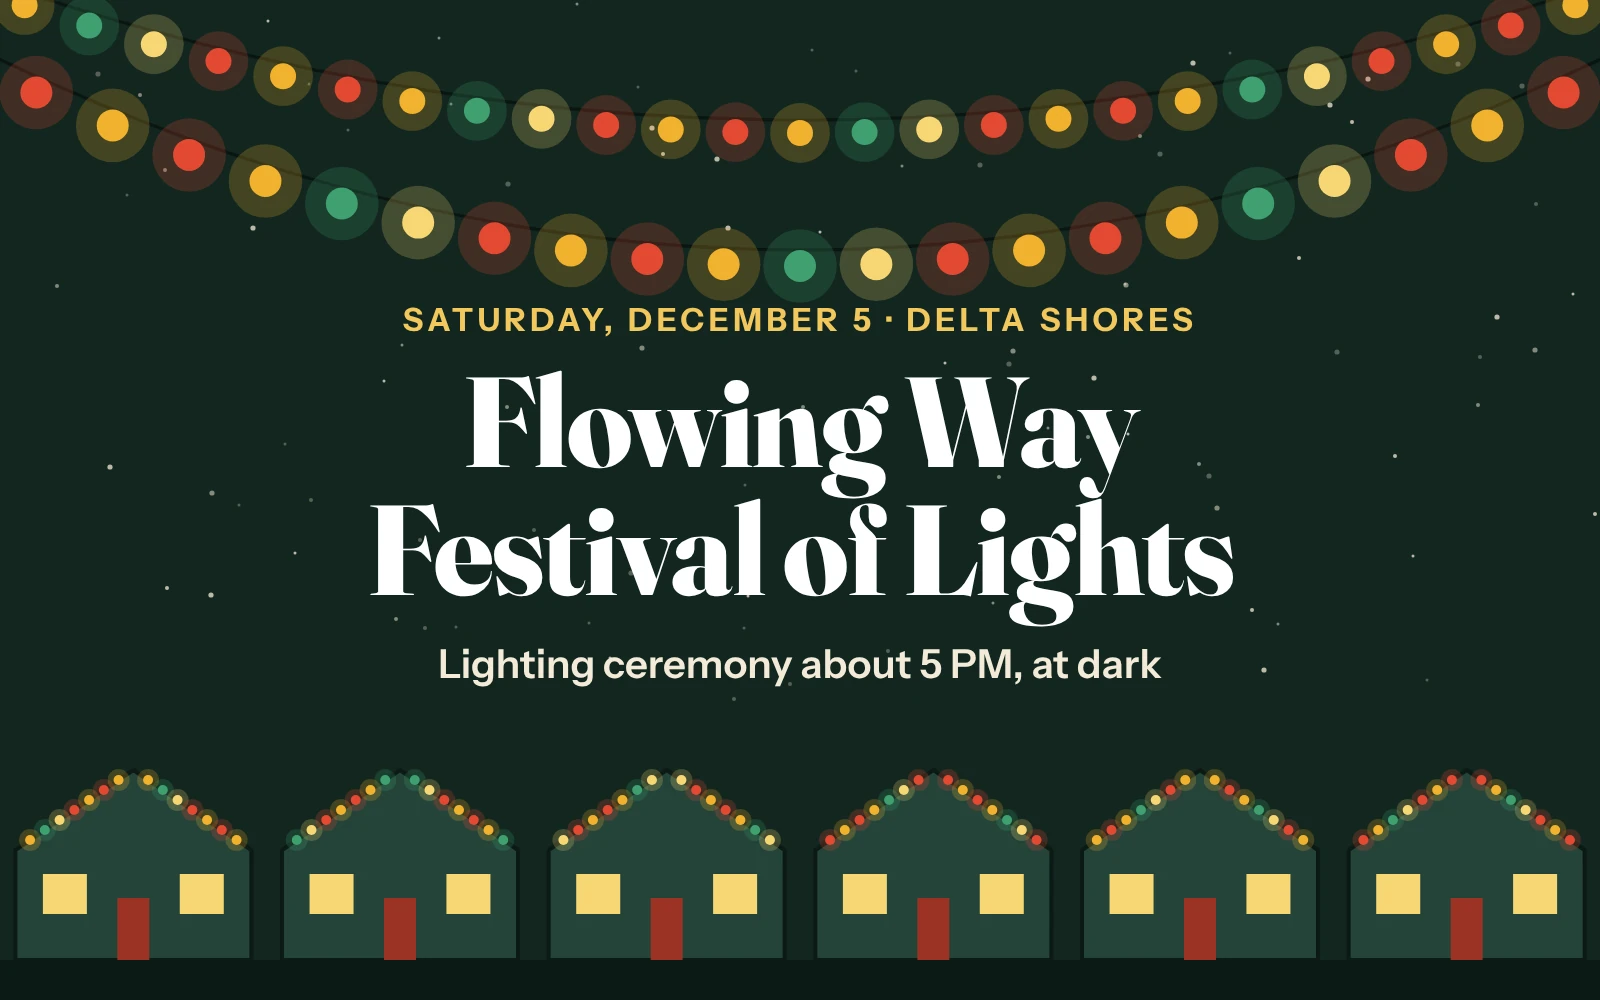
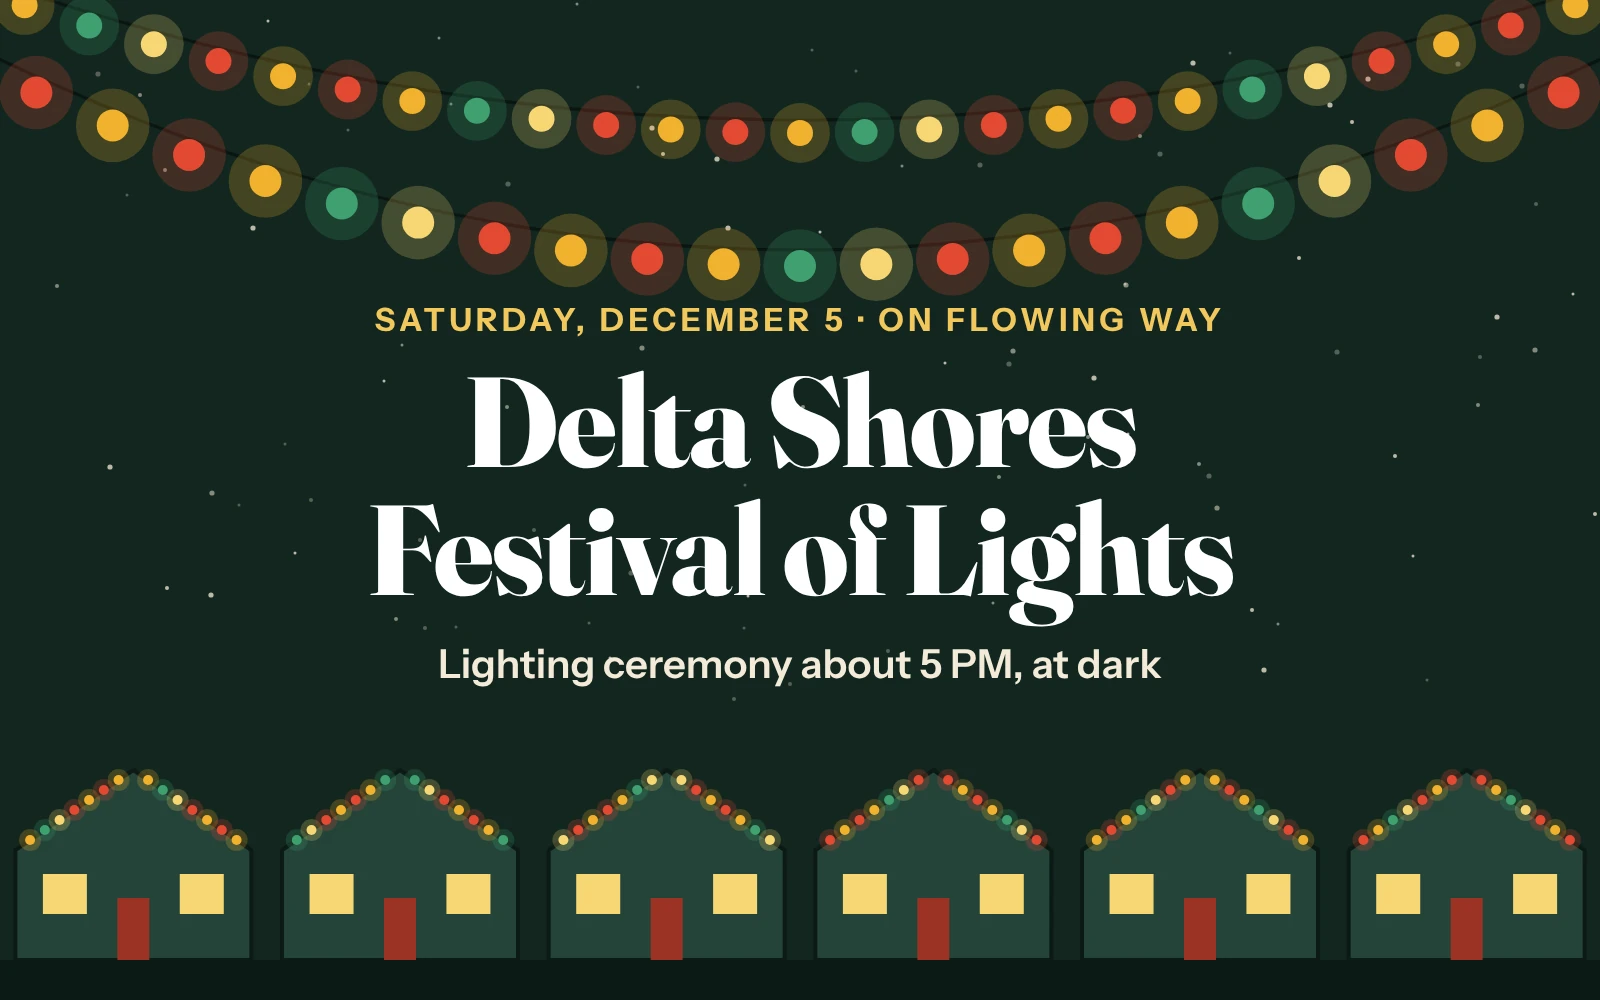
Rename to Delta Shores Festival of Lights on Flowing Way; use info@ contact
Claude-Session: https://claude.ai/code/session_012ML3TxweU7x9DmVZGi3akJ

Changed region(s): [[0.3125, 0.372, 0.7188, 0.496], [0.2188, 0.31, 0.7812, 0.341]]

diff --git a/content/posts/save-the-date-delta-shores-festival-of-lights.html b/content/posts/save-the-date-delta-shores-festival-of-lights.html
@@ -1,5 +1,5 @@
 <!--
-title: Save the Date: Flowing Way Festival of Lights, December 5
+title: Save the Date: Delta Shores Festival of Lights on Flowing Way, December 5
 date: 2026-11-12
 author: Daron Go
 image: /img/site/festival-of-lights-banner.webp
@@ -21,13 +21,13 @@ excerpt: On Saturday, December 5, volunteers will string lights across Flowing W
 <p>We're expecting civic leaders from the Mayor's office and Councilmember Mai Vang's office, along with local news media and our sponsors. Kaiser Permanente will have an information table.</p>
 
 <h3>Where</h3>
-<p>The lights will be on Flowing Way, at 2000 to 2036 Flowing Way. Come on foot if you can, and bring the family.</p>
+<p>The lights will be on Flowing Way. Come on foot if you can, and bring the family.</p>
 
 <h3>If you live on Flowing Way</h3>
 <p>Everything is provided at no cost to participating homes: your share of the LED strand that crosses the street, the hook at your roof peak, an extension cord and a timer if you need one, yard lights and decorations, and the crew to put it all up. You can work with the volunteers to arrange your yard the way you like it. We're asking participating homes to light up every evening in December.</p>
-<p>If you haven't signed up yet, or you have questions, email <a href="mailto:daron@deltashorescommunity.com">daron@deltashorescommunity.com</a>.</p>
+<p>If you haven't signed up yet, or you have questions, email <a href="mailto:info@deltashorescommunity.com">info@deltashorescommunity.com</a>.</p>
 
 <h3>Thank you to our sponsors</h3>
-<p>The Flowing Way Festival of Lights is co-sponsored by the Delta Shores Community Association, <strong>SMUD</strong>, <strong>SEIU</strong>, and <strong>Kaiser Permanente</strong>.</p>
+<p>The Delta Shores Festival of Lights is co-sponsored by the Delta Shores Community Association, <strong>SMUD</strong>, <strong>SEIU</strong>, and <strong>Kaiser Permanente</strong>.</p>
 
 <p>We'll share more details as the day gets closer. <a href="/contact">Join our mailing list</a> so you don't miss an update.</p>
